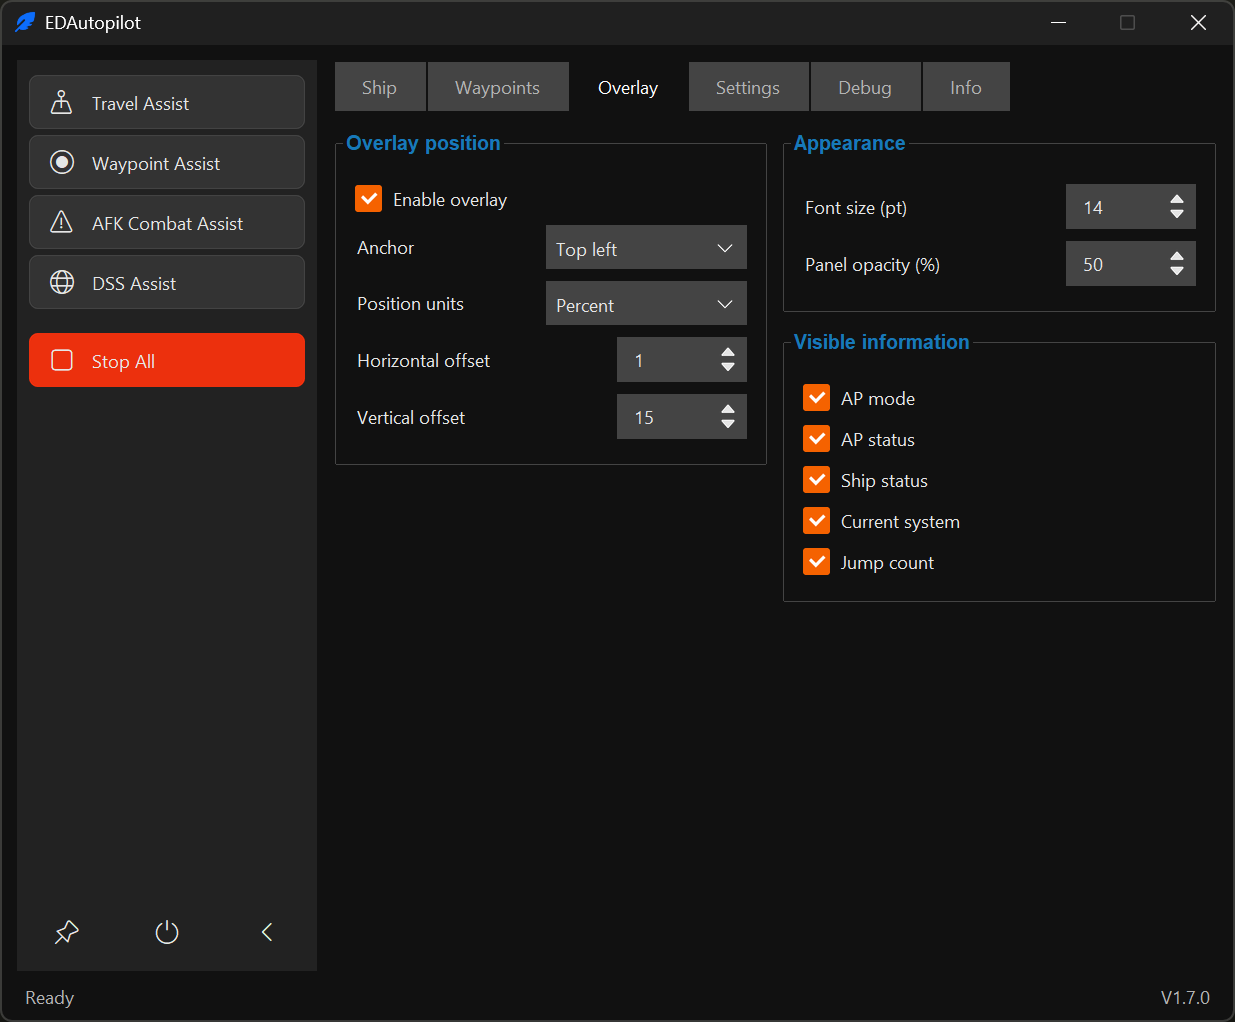
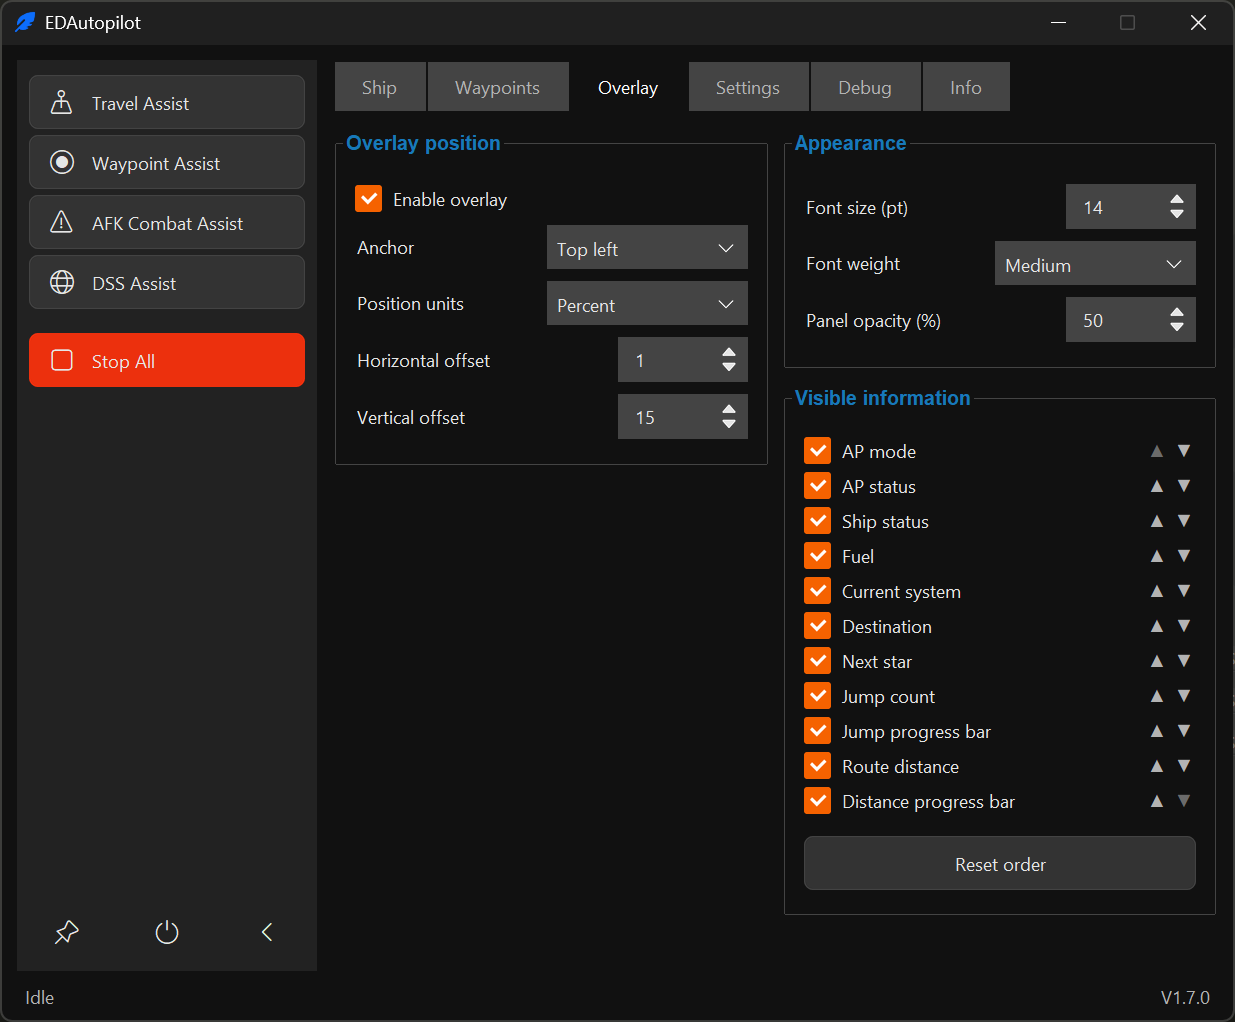
feat(gui): show route progress from the route data in the footer
Also update the README screenshots of the Overlay tab and the status overlay.

diff --git a/tests/test_overlay.py b/tests/test_overlay.py
@@ -953,6 +953,58 @@ class OverlayRenderingTests(unittest.TestCase):
                         [call(stop_msg), call("ap_status", "Idle")],
                     )
 
+    def _route_info_autopilot(self, location, address, travel=True):
+        autopilot = EDAutopilot.__new__(EDAutopilot)
+        autopilot.travel_assist_enabled = travel
+        autopilot.waypoint_assist_enabled = False
+        autopilot.single_waypoint_enabled = False
+        autopilot.jn = SimpleNamespace(ship_state=lambda: {"location": location, "system_address": address})
+        autopilot.nav_route = SimpleNamespace(
+            get_nav_route_data=lambda: {
+                "event": "NavRoute",
+                "Route": [
+                    {"StarSystem": "A", "SystemAddress": 1, "StarPos": [0.0, 0.0, 0.0]},
+                    {"StarSystem": "B", "SystemAddress": 2, "StarPos": [3.0, 4.0, 0.0]},
+                    {"StarSystem": "C", "SystemAddress": 3, "StarPos": [3.0, 4.0, 12.0]},
+                ],
+            }
+        )
+        autopilot._overlay_route_active = False
+        autopilot._overlay_route_signature = ()
+        autopilot._overlay_route_systems = []
+        autopilot._overlay_route_completed_at = None
+        autopilot.ap_ckb = Mock()
+        return autopilot
+
+    def test_route_info_shows_jumps_and_distance_while_a_route_assist_runs(self):
+        autopilot = self._route_info_autopilot("B", 2)
+
+        autopilot.update_route_info()
+        autopilot.update_route_info()
+
+        autopilot.ap_ckb.assert_called_once_with("route_info", "Jumps: 1 of 2 \u00b7 5.0 of 17.0 ly")
+
+    def test_route_info_is_cleared_at_route_end_and_on_stop(self):
+        autopilot = self._route_info_autopilot("B", 2)
+        autopilot.update_route_info()
+
+        autopilot.jn = SimpleNamespace(ship_state=lambda: {"location": "C", "system_address": 3})
+        autopilot.update_route_info()
+        self.assertEqual(autopilot.ap_ckb.call_args_list[-1], call("route_info", ""))
+
+        autopilot.jn = SimpleNamespace(ship_state=lambda: {"location": "B", "system_address": 2})
+        autopilot.update_route_info()
+        autopilot.travel_assist_enabled = False
+        autopilot.update_route_info()
+        self.assertEqual(autopilot.ap_ckb.call_args_list[-1], call("route_info", ""))
+
+    def test_route_info_stays_empty_without_a_route_assist(self):
+        autopilot = self._route_info_autopilot("B", 2, travel=False)
+
+        autopilot.update_route_info()
+
+        autopilot.ap_ckb.assert_not_called()
+
     def test_status_lines_can_be_hidden_and_compacted(self):
         autopilot = EDAutopilot.__new__(EDAutopilot)
         autopilot.config = {
@@ -970,8 +1022,6 @@ class OverlayRenderingTests(unittest.TestCase):
         autopilot.afk_combat_assist_enabled = False
         autopilot.dss_assist_enabled = False
         autopilot.ap_state = "Idle"
-        autopilot.jump_cnt = 1
-        autopilot.total_jumps = 2
         autopilot.jn = SimpleNamespace(ship_state=lambda: {"status": "Flying", "star_class": "G", "location": "Sol"})
         autopilot.nav_route = SimpleNamespace(
             get_nav_route_data=lambda: {
@@ -1022,8 +1072,6 @@ class OverlayRenderingTests(unittest.TestCase):
         autopilot.afk_combat_assist_enabled = False
         autopilot.dss_assist_enabled = False
         autopilot.ap_state = "Idle"
-        autopilot.jump_cnt = 0
-        autopilot.total_jumps = 0
         autopilot.jn = SimpleNamespace(ship_state=lambda: {"status": None, "star_class": None, "location": None})
         autopilot.overlay = Mock()
 

diff --git a/src/core/autopilot.py b/src/core/autopilot.py
@@ -168,6 +168,7 @@ class EDAutopilot(ConfigMixin, DetectionMixin, FlightMixin, AssistsMixin):
     _overlay_lock = threading.RLock()
     _overlay_last_frame = None
     _overlay_status = None
+    _route_info_text = ""
 
     def __init__(self, cb, do_thread=True):
 
@@ -363,14 +364,11 @@ class EDAutopilot(ConfigMixin, DetectionMixin, FlightMixin, AssistsMixin):
         self.pitchrate = 33.0
         self.sunpitchuptime = 0.0
 
-        self.jump_cnt = 0
         self.total_dist_jumped = 0
-        self.total_jumps = 0
         self._overlay_route_active = False
         self._overlay_route_signature = ()
         self._overlay_route_systems = []
         self._overlay_route_completed_at = None
-        self.refuel_cnt = 0
         self.current_ship_type = None
         self.gui_loaded = False
 
@@ -699,6 +697,7 @@ class EDAutopilot(ConfigMixin, DetectionMixin, FlightMixin, AssistsMixin):
         while not self.terminate:
             try:
                 self.update_overlay()
+                self.update_route_info()
                 last_error = None
             except Exception as e:
                 if str(e) != last_error:
@@ -725,6 +724,24 @@ class EDAutopilot(ConfigMixin, DetectionMixin, FlightMixin, AssistsMixin):
         else:
             self.overlay.overlay_paint()
 
+    def update_route_info(self):
+        """Publish route progress to the GUI footer while a route assist runs; otherwise clear it."""
+        text = ""
+        if self.travel_assist_enabled or self.waypoint_assist_enabled or self.single_waypoint_enabled:
+            with self._overlay_lock:
+                route_progress = self._get_overlay_route_progress(self.jn.ship_state())
+                route = self._overlay_route_systems
+            if route_progress is not None and route_progress[0] == "on_route":
+                _state, completed, total = route_progress
+                text = f"Jumps: {completed} of {total}"
+                route_distance = self._get_overlay_route_distance(route, completed)
+                if route_distance is not None:
+                    remaining, total_distance = route_distance
+                    text += f" \u00b7 {total_distance - remaining:,.1f} of {total_distance:,.1f} ly"
+        if text != self._route_info_text:
+            self._route_info_text = text
+            self.ap_ckb("route_info", text)
+
     def set_ap_status(self, txt):
         """Publish the current AP status to the overlay and GUI."""
         self.ap_state = txt
@@ -747,6 +764,7 @@ class EDAutopilot(ConfigMixin, DetectionMixin, FlightMixin, AssistsMixin):
         """Reports the end of an assist after its thread work is done, so no late status can override Idle."""
         self.ap_ckb(stop_msg)
         self.set_ap_status("Idle")
+        self.update_route_info()
 
         # Performs left menu ops to request docking
 
@@ -907,10 +925,7 @@ class EDAutopilot(ConfigMixin, DetectionMixin, FlightMixin, AssistsMixin):
 
                 set_focus_elite_window()
                 self.update_overlay()
-                self.jump_cnt = 0
-                self.refuel_cnt = 0
                 self.total_dist_jumped = 0
-                self.total_jumps = 0
                 try:
                     self.waypoint_assist(self.keys, self.scrReg)
                 except EdapInterruptError:

diff --git a/src/routines/assists.py b/src/routines/assists.py
@@ -1,7 +1,6 @@
 """The assist routines: FSD, SC, waypoint, AFK combat, DSS."""
 
 import threading
-import time
 from time import sleep
 
 from core.constants import Flags2GlideMode, FlagsDocked, FlagsLanded
@@ -79,13 +78,6 @@ class AssistsMixin:
         # nav_route_parser = NavRouteParser()
         logger.debug("self.jn.ship_state=" + str(self.jn.ship_state()))
 
-        starttime = time.time()
-        starttime -= 20  # to account for first instance not doing positioning
-
-        route_state = self.jn.ship_state()
-        if route_state["target"] and route_state["jumps_remains"] > 0:
-            self.total_jumps = self.jump_cnt + route_state["jumps_remains"]
-
         # TODO - can we enable this? Seems like a better way
         # if nav_route_parser.get_last_system() is not None:
         if self.jn.ship_state()["target"]:
@@ -109,9 +101,8 @@ class AssistsMixin:
 
                 self.jump(scr_reg)
 
-                # update jump counters
+                # update the distance counter
                 self.total_dist_jumped += self.jn.ship_state()["dist_jumped"]
-                self.total_jumps = self.jump_cnt + self.jn.ship_state()["jumps_remains"]
 
                 # reset, upon next Jump the Journal will be updated again, unless last jump,
                 # so we need to clear this out
@@ -119,17 +110,6 @@ class AssistsMixin:
                 self.jn.ship_state()["jumps_remains"] = 0
 
                 self.update_overlay()
-
-                avg_time_jump = (time.time() - starttime) / self.jump_cnt
-                self.ap_ckb(
-                    "jumpcount",
-                    "Dist: {:,.1f}".format(self.total_dist_jumped)
-                    + "ly"
-                    + "  Jumps: {}of{}".format(self.jump_cnt, self.total_jumps)
-                    + "  @{}s/j".format(int(avg_time_jump))
-                    + "  Fu#: "
-                    + str(self.refuel_cnt),
-                )
 
                 # Do the Discovery Scan (Honk)
                 self.honk_thread = threading.Thread(target=self.honk, daemon=True)
@@ -174,10 +154,7 @@ class AssistsMixin:
     def travel_assist(self, scr_reg):
         """Choose the required travel phase from the currently targeted system."""
         if self.jn.ship_state()["target"]:
-            self.jump_cnt = 0
-            self.refuel_cnt = 0
             self.total_dist_jumped = 0
-            self.total_jumps = 0
             if self.fsd_assist(scr_reg) is False and self.travel_assist_enabled:
                 self.set_ap_status("SC to Target")
                 self.sc_assist(scr_reg)

diff --git a/src/gui/main_window.py b/src/gui/main_window.py
@@ -130,9 +130,9 @@ class APGui:
         self.collapsed = self.state["collapsed"]
         self.pinned = self.state["topmost"]
         self.status_text = "Idle"
-        self.jump_text = ""
+        self.route_text = ""
         self.status = None
-        self.jumpcount = None
+        self.route_info = None
         self.tab_index = 0
         root.attributes("-topmost", self.pinned)
 
@@ -186,8 +186,8 @@ class APGui:
         self.statusbar.columnconfigure((0, 2), weight=1, uniform="footer")
         self.status = ttk.Label(self.statusbar, text=self.status_text, padding=(u(4), u(2)), foreground=MUTED)
         self.status.grid(row=0, column=0, sticky="w")
-        self.jumpcount = ttk.Label(self.statusbar, text=self.jump_text, padding=(u(4), u(2)), foreground=MUTED)
-        self.jumpcount.grid(row=0, column=1)
+        self.route_info = ttk.Label(self.statusbar, text=self.route_text, padding=(u(4), u(2)), foreground=MUTED)
+        self.route_info.grid(row=0, column=1)
         right = ttk.Frame(self.statusbar)
         right.grid(row=0, column=2, sticky="e")
         self.update_label = ttk.Label(
@@ -493,8 +493,8 @@ class APGui:
             self.stop_active_mode()
             self.swp_var.set(False)
             self.toggle_single_waypoint()
-        elif msg == "jumpcount":
-            self.update_jumpcount(body)
+        elif msg == "route_info":
+            self.update_route_info(body)
         elif msg == "update_ship_cfg":
             self.update_ship_cfg()
         else:
@@ -740,9 +740,9 @@ class APGui:
             self.log_text.configure(state="disabled")
             self.log_text.see("end")
 
-    def update_jumpcount(self, txt):
-        self.jump_text = txt
-        self.jumpcount.configure(text=txt)
+    def update_route_info(self, txt):
+        self.route_text = txt
+        self.route_info.configure(text=txt)
 
     def update_statusline(self, txt):
         self.status_text = txt

diff --git a/tests/test_flight.py b/tests/test_flight.py
@@ -153,7 +153,6 @@ class JumpRetryTestCase(unittest.TestCase):
         flight.status.wait_for_flag_on.side_effect = [True, True]
         flight.status.wait_for_flag_off.side_effect = [True, True, True]
         flight.wait_for_fsd_jump_start.side_effect = [False, True]
-        flight.jump_cnt = 0
 
         with patch("routines.flight.sleep"):
             self.assertTrue(FlightMixin.jump(flight, None))
@@ -162,7 +161,6 @@ class JumpRetryTestCase(unittest.TestCase):
         self.assertEqual(flight.wait_for_fsd_jump_start.call_count, 2)
         flight.status.wait_for_flag_off.assert_any_call(FlagsFsdJump, 5)
         flight.status.wait_for_flag_off.assert_any_call(FlagsFsdCharging, 5)
-        self.assertEqual(flight.jump_cnt, 1)
 
     def test_retry_alignment_allows_stale_hyperspace_journal_status(self):
         flight = Mock()
@@ -212,7 +210,6 @@ class JumpRetryTestCase(unittest.TestCase):
         flight.status.wait_for_flag_on.return_value = True
         flight.status.wait_for_flag_off.return_value = True
         flight.wait_for_fsd_jump_start.side_effect = [False, True]
-        flight.jump_cnt = 0
 
         with patch("routines.flight.sleep"):
             self.assertTrue(FlightMixin.jump(flight, None))

diff --git a/src/routines/flight.py b/src/routines/flight.py
@@ -842,7 +842,6 @@ class FlightMixin:
                 continue
 
             logger.debug(f"FSD jump attempt {i + 1}: jump completed.")
-            self.jump_cnt = self.jump_cnt + 1
             self.keys.send("SetSpeedZero", repeat=3)  # Let's be triply sure that we set speed to 0% :)
             sleep(1)  # wait 1 sec after jump to allow graphics to stablize and accept inputs
             logger.debug("FSD jump handling complete.")
@@ -918,8 +917,6 @@ class FlightMixin:
             self.keys.send("SetSpeed50")
             sleep(1.7)
             self.keys.send("SetSpeedZero", repeat=3)
-
-            self.refuel_cnt += 1
 
             # The log will not reflect a FuelScoop until first 5 tons filled, then every 5 tons until complete
             # if we don't scoop first 5 tons with 40 sec break, since not scooping or not fast enough or not at all, then abort

diff --git a/CHANGELOG.md b/CHANGELOG.md
@@ -43,6 +43,7 @@ Format based on [Keep a Changelog](https://keepachangelog.com/en/1.1.0/).
 ### Changed
 
 - Centralized AP status updates so the GUI footer and overlay show the same current status, while the GUI log keeps status history and additional user-facing messages.
+- Changed the route line in the middle of the GUI footer to `Jumps: 12 of 40 · 3,412.8 of 7,320.6 ly`, taken from the same route data as the overlay, as an alternative to the overlay. It is shown only while Travel, Waypoint or Single Waypoint Assist follows a route and is cleared at route end or stop. The old line with average seconds per jump and refuel count was removed.
 - Changed the overlay ship status to readable text (for example "Supercruise" instead of `in_supercruise`, "Unknown" before the first journal state, as for the current system and star class), with success color when docked and warning color when docking is denied. The current system line now separates system name and star class with an orange " | " instead of a comma.
 - Added more detailed AP status steps for in-system travel: "Entering supercruise", "Align", the supercruise target, "Approaching target", "Requesting docking", "Docking", "Refueling and repairing" after docking, and "Arrived at target" when docking is not possible. The status returns to Idle immediately when the assist ends.
 - Changed the default overlay settings to match the maintainer's current setup: enabled, top-left anchor, percentage offsets of 1% and 15%, Rajdhani size 14, 50% panel opacity, and all information lines visible. Existing configurations without a position unit keep pixel-based offsets.
@@ -50,7 +51,7 @@ Format based on [Keep a Changelog](https://keepachangelog.com/en/1.1.0/).
 - Styled the status overlay with the GUI palette: a dark panel and border, orange labels, light values, muted placeholders, and a subtle text shadow.
 - Replaced the separate FSD Route Assist and Supercruise Assist controls with one Travel Assist option. It selects the FSD route when a system target is set and automatically continues to a local target when one remains; the former FSD start hotkey is retained as the Travel Assist hotkey.
 - Reorganized the README and user guides, added a dedicated keybindings guide, and documented current assist behavior and follow-up items in place of the obsolete design notes.
-- Updated the README screenshots for the new tab bar and added one of the Overlay tab.
+- Updated the README screenshots for the new tab bar and added one of the Overlay tab and one of the status overlay.
 - Expanded the project structure guide into a compact file-by-file tree with short responsibilities and placement boundaries.
 - Changed the target offset to be computed from the fitted center of the target circle instead of fixed correction values, so it is independent of the resolution.
 - Changed the supported languages to German and English; removed the French and Russian locales, the `sc-disengage` template and the deprecated `sc_disengage`.

diff --git a/README.md b/README.md
@@ -18,7 +18,8 @@ EDAPGui is a Windows autopilot for Elite Dangerous, offering optional assistance
 - **AFK Combat Assist** monitors shields and fighter status in a combat zone.
 - **Status overlay** shows the assist mode and status, ship status, fuel, current system, route destination, next star,
   jumps, and route distance on top of the game, with progress bars for jumps and distance. Its AP status matches the
-  main window footer. Position, appearance, and which lines are shown in which order are set on the Overlay tab.
+  main window footer, whose middle shows jumps and route distance while a route assist runs. Position, appearance, and
+  which lines are shown in which order are set on the Overlay tab.
 - Optional voice feedback, a debug overlay, and loading a TCE destination are also available.
 
 See the [waypoint guide](docs/Waypoint.md) for waypoint files and trade actions, and the
@@ -93,6 +94,10 @@ Ship tab:
 Overlay tab:
 
 <img src="docs/screenshots/screen_cap_overlay.png" alt="Overlay tab" width="700">
+
+Status overlay:
+
+<img src="docs/screenshots/screen_cap_status_overlay.png" alt="Status overlay" width="491">
 
 Settings tab:
 
